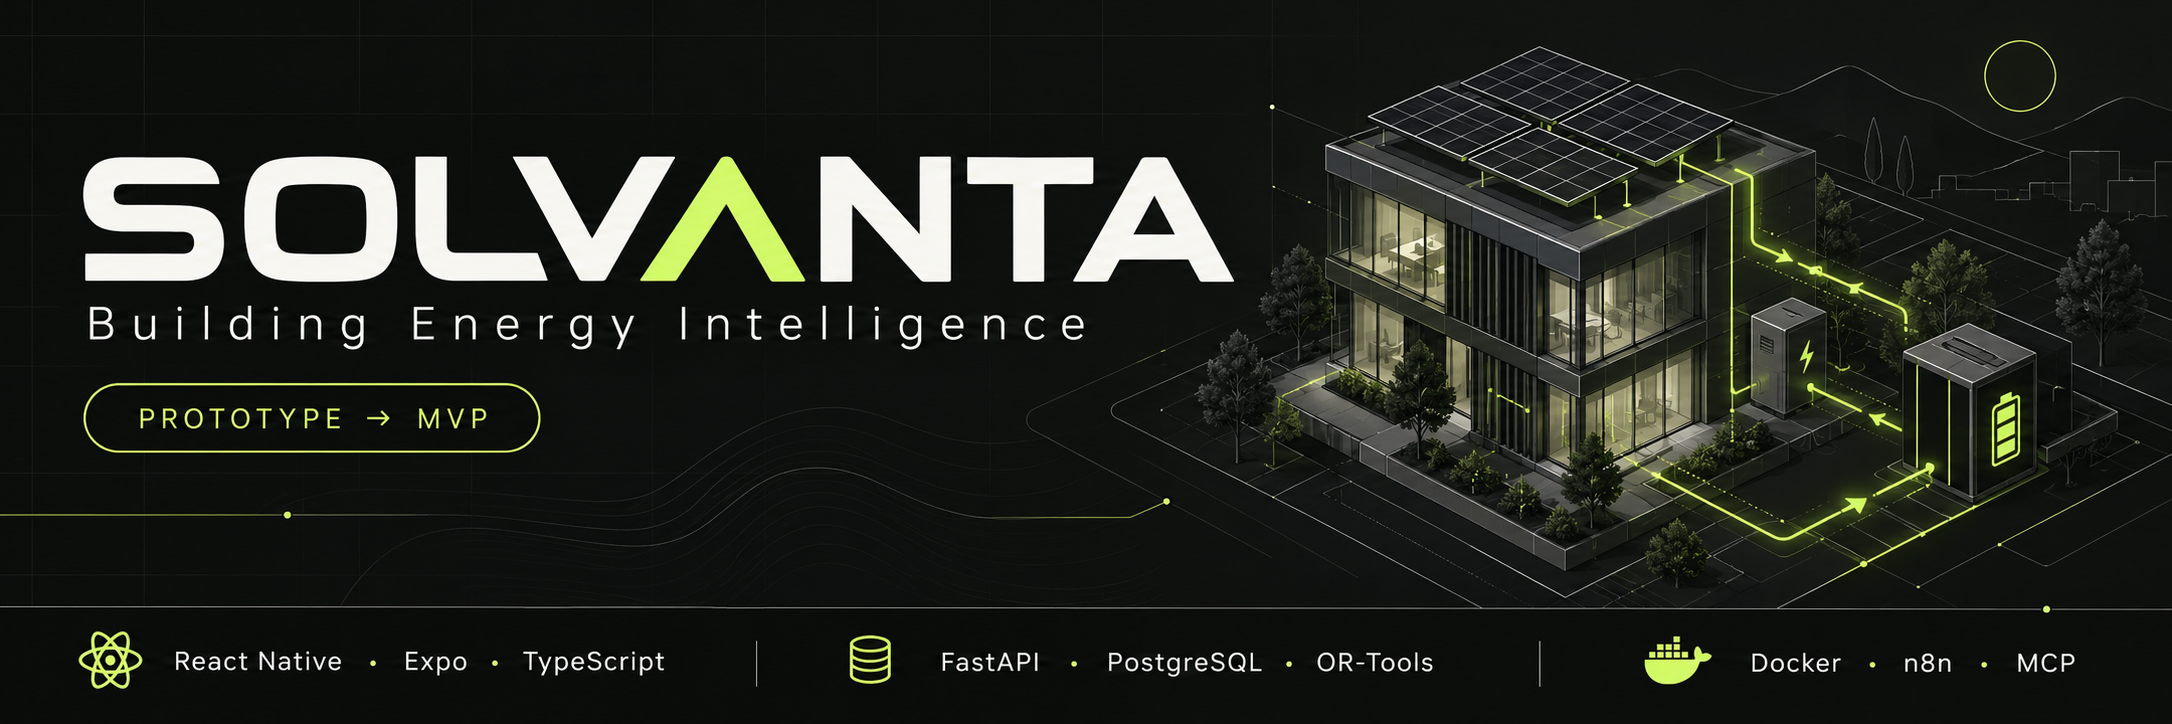
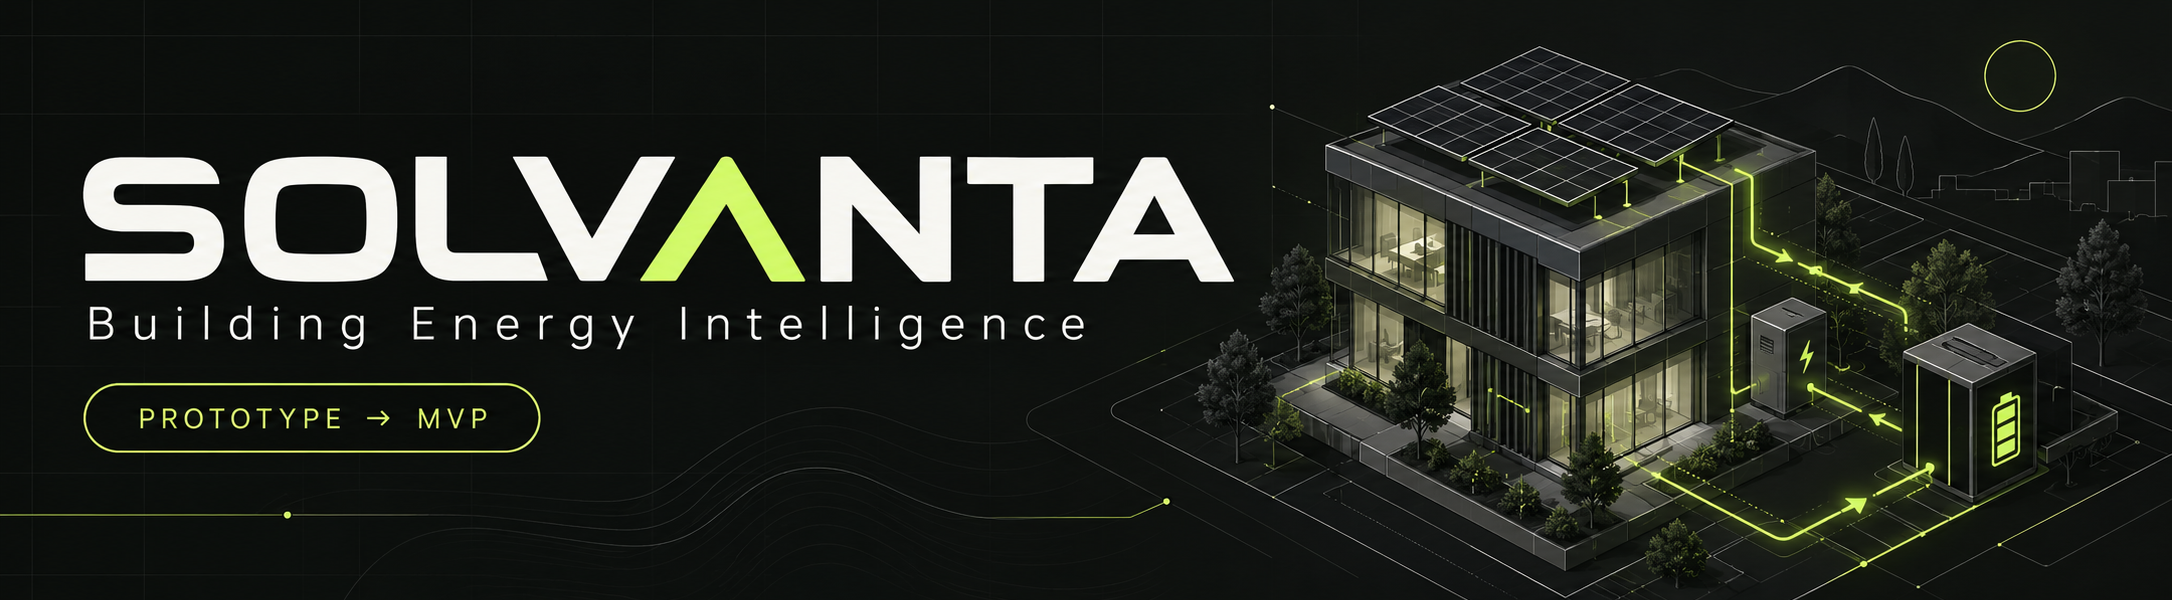
Overhaul the README with screenshots from the Android build
- Eight new screenshots captured from the development build with the
  demo building: home with live weather, appliances, an evening outage
  simulation, rooftop design, appliance schedule, simulated AR preview,
  bill history with solar sizing, and engine tools.
- The text now describes the local-first app: on-device SQLite engine,
  Open-Meteo weather, ML Kit bill reading, ARCore AR; with an
  architecture sketch, the current stack and how to run the build.
- Banner: cropped the old FastAPI / PostgreSQL / Docker / n8n / MCP
  strip. The earlier prototype screenshots stay in docs/ui-evidence for
  the documents that cite them.

diff --git a/README.md b/README.md
@@ -1,83 +1,112 @@
 <p align="center">
-  <img src="docs/assets/solvanta-banner.png" alt="Solvanta — Building Energy Intelligence. Prototype to MVP. React Native, Expo, TypeScript, FastAPI, PostgreSQL, OR-Tools, Docker, n8n and MCP." width="100%" />
+  <img src="docs/assets/solvanta-banner.png" alt="Solvanta — Building Energy Intelligence. Prototype to MVP." width="100%" />
 </p>
 
 <p align="center">
-  <strong>PROTOTYPE PHASE · MOVING TOWARDS MVP</strong><br />
+  <strong>LOCAL-FIRST · ANDROID · PROTOTYPE → MVP</strong><br />
   Model your energy. Understand your backup. Plan for the outage.
 </p>
 
-Solvanta is an Android-first building energy digital twin that brings solar design, appliance priorities and backup planning into one workflow. Explore what happens during a power outage, compare alternatives and review a plan before running its simulation.
+Solvanta is an Android building-energy digital twin. It brings rooftop solar design, appliance priorities and outage planning into one workflow. Every calculation runs on the phone and every record is stored in an on-device SQLite database. There is no server to run and nothing to deploy; the app works offline. Only sign-in and live weather use the internet.
 
-## Inside the prototype
+## Screenshots
 
 <table>
   <tr>
-    <th width="25%">Energy overview</th>
-    <th width="25%">Load priorities</th>
-    <th width="25%">Outage scenarios</th>
-    <th width="25%">Rooftop studio</th>
+    <th width="25%">Home &amp; live weather</th>
+    <th width="25%">Appliances &amp; priorities</th>
+    <th width="25%">Outage simulation</th>
+    <th width="25%">Rooftop &amp; PV design</th>
   </tr>
   <tr>
-    <td><img src="docs/ui-evidence/android/01-overview-dark.png" alt="Earlier Android prototype: neon energy overview and flow diagram" width="220" /></td>
-    <td><img src="docs/ui-evidence/android/02-appliances-dark.png" alt="Earlier Android prototype: appliance selection and load priorities" width="220" /></td>
-    <td><img src="docs/ui-evidence/android/03-simulation-dark.png" alt="Earlier Android prototype: battery reserve gauge and outage scenario" width="220" /></td>
-    <td><img src="docs/ui-evidence/android/05-rooftop-dark.png" alt="Earlier Android prototype: rooftop geometry and solar panel layout" width="220" /></td>
+    <td><img src="docs/screenshots/01-home.png" alt="Home: energy flow between solar, battery, grid and home, with the live weather box" width="220" /></td>
+    <td><img src="docs/screenshots/02-appliances.png" alt="Appliances: loads with power, priority and runtime windows" width="220" /></td>
+    <td><img src="docs/screenshots/03-simulation.png" alt="Simulation: battery state of charge and unmet demand through an outage" width="220" /></td>
+    <td><img src="docs/screenshots/04-rooftop.png" alt="Rooftop: calibrated roof outline, obstacles and placed panels" width="220" /></td>
+  </tr>
+  <tr>
+    <th>Appliance scheduling</th>
+    <th>AR preview</th>
+    <th>Bills &amp; solar sizing</th>
+    <th>Engine tools</th>
+  </tr>
+  <tr>
+    <td><img src="docs/screenshots/05-scheduling.png" alt="Scheduling: when each appliance runs within the solar and grid budget" width="220" /></td>
+    <td><img src="docs/screenshots/06-rooftop-ar.png" alt="AR preview: the saved panel layout in perspective on a detected surface; simulated where ARCore is unavailable" width="220" /></td>
+    <td><img src="docs/screenshots/07-solar-sizing.png" alt="Bills: twelve months of electricity use saved for the building, used to size the solar array" width="220" /></td>
+    <td><img src="docs/screenshots/08-operations.png" alt="Engine tools: comparing the current system with a bigger battery and more PV" width="220" /></td>
   </tr>
 </table>
 
-*Screenshots show the earlier Android UI prototype with fixture data. The current integrated build and its validation are documented in the [project status](docs/STATUS.md); the final visual overhaul is still ahead.*
+*Screenshots from the Android development build with the built-in demo building. Weather is live; energy results are simulated, and the app never switches real equipment. The AR shot is the simulated preview shown on devices without ARCore; on an ARCore phone the same layout is placed through the camera.*
 
-## Product modules
+## What it does
 
 ### Building & appliance digital twin
-
-Create a building profile with its solar array, inverter, battery, grid connection and optional generator. Register individual appliances with power ratings, criticality, required runtime and operating windows, then select the loads to include in a scenario. This turns equipment specifications into a model of the building's energy needs.
+Describe the building: solar array, inverter, battery, grid connection and an optional generator. Add appliances with their power, priority, required runtime and the hours they may run in, then choose which loads a scenario includes.
 
 ### Rooftop & solar planning
+Trace the roof on a top-down photo, calibrate it with one measured distance, mark obstacles, and let Solvanta place panels with setbacks. The saved layout gives a PV capacity and an hour-by-hour generation estimate. **Preview in AR** places the saved layout on a real surface through ARCore.
 
-Calibrate a roof drawing to real dimensions, define boundaries and obstacles, and explore panel placement with setbacks. Estimate PV capacity and daily generation from the saved layout and irradiance assumptions to connect rooftop space with the energy available to the building.
+### Solar sizing from an electricity bill
+Photograph a Pakistani electricity bill. The phone reads the monthly *Units* history with on-device text recognition (the image never leaves the device). It then suggests an array size for your city's solar yield.
 
-### Outage simulation & shortage forecasting
+### Outage simulation & shortage forecast
+Simulate a day in 15-minute steps: how solar, battery, grid and generator serve demand through the outages you set. See battery charge, unmet demand and shortages of critical loads, plus a next-day projection.
 
-Explore how solar, batteries, grid supply and an optional generator serve demand across a day in 15-minute intervals. Inspect battery state of charge, unmet demand and critical-load shortages during configured outages. Persistence-based projections use configured or saved simulated profiles to estimate where shortages may occur.
+### Appliance scheduling
+A constraint scheduler decides when each selected appliance runs. Every load completes its runtime inside its window, interruption limits are respected, and the available solar + grid power is never exceeded. Higher-priority loads are delayed least. It is a branch-and-bound search on the phone, checked against Google OR-Tools on reference cases.
 
-### Appliance scheduling & backup resilience
+### Backup resilience & what-if plans
+Compare normal battery use with a critical-reserve strategy that keeps energy back for essential loads. Compare the current system with a bigger battery or more PV. Then take a plan through review: submit, approve, simulate and verify, with every step kept in an audit trail.
 
-Schedule selected appliances within their runtime, flexibility and interruption constraints using the available solar and grid power budget. Compare baseline dispatch with a critical-reserve strategy that preserves battery energy for essential loads. Results expose unmet demand and infeasible schedules so users can see where their configuration falls short.
+### Replay & operations
+Replay a saved simulation step by step. Generate clearly labelled simulated telemetry, flag mismatches against the expected trace as incidents, and check them against a verified plan.
 
-### What-if comparisons & human approval
+### Live weather
+Current conditions and a three-day forecast for your city, plus a solar production forecast for your saved array, from [Open-Meteo](https://open-meteo.com) (no API key). The weather box animates sun, moon, clouds, rain, snow and lightning, and its colour follows the temperature. Offline, it shows only the sun or the moon for the time of day.
 
-Compare the current configuration with hypothetical battery or PV capacity changes and inspect the resulting energy tradeoffs. Submit a plan for review, approve or reject it, then simulate the approved snapshot and verify its results. Revision checks and audit records keep each decision tied to the inputs that were reviewed.
+## How it works
 
-### Digital twin replay
+```
+React Native app (Expo, TypeScript)
+├── Screens ──────────► api client (same routes as the old REST API)
+│                         ├── on-device engine ── SQLite (expo-sqlite)
+│                         │     simulation · PV · roof geometry · scheduler
+│                         │     forecast · resilience · plans · telemetry
+│                         └── weather ─────────── Open-Meteo (online)
+├── Sign-in ──────────► Firebase Authentication (online) or guest mode
+├── Bill reading ─────► ML Kit text recognition (on device)
+└── AR preview ───────► ViroReact + ARCore (on device)
+```
 
-Play, pause and seek through a saved simulation to follow energy flows, battery charge and requested appliance activity over time. Replay uses the recorded scenario rather than silently substituting the building's latest settings, making it easier to explain and revisit a result.
-
-### Energy operations & incident evidence
-
-Generate explicitly simulated telemetry and examine persistent PV, battery or load mismatches against the expected trace. Incident records include supporting evidence and possible causes, with post-plan checks that evaluate synthetic model consistency. This provides an operations workflow for investigating scenarios without claiming real hardware diagnosis.
-
-### Workflow automation & engineering tools
-
-Coordinate shortage response, daily planning and anomaly incidents through n8n workflows with durable approval waits. Nine authenticated MCP tools expose building profiles, saved scenarios, simulation, forecasting, scheduling, resilience, configuration comparison, anomalies and plan proposals. The mobile Operations page calls the same engineering services; proposals stay pending until explicitly approved.
-
-## One connected workflow
-
-**Model the building → Explore an outage → Compare options → Review a plan → Approve → Simulate & verify → Replay the outcome.**
-
-Solvanta connects design assumptions with operational decisions, helping users understand which loads can be supported, when appliances can run and how changes affect backup resilience.
+The engines began as a Python/FastAPI backend and were ported to TypeScript. A parity test still compares them with the reference outputs of the original Python code (`mobile/__tests__/local_engine_parity.test.ts`).
 
 ## Tech stack
 
-| Layer | Technologies |
+| Area | Technologies |
 |---|---|
-| Mobile | React Native · Expo · TypeScript · Expo Router |
-| API & data | Python · FastAPI · Pydantic · SQLAlchemy · PostgreSQL |
-| Engines & operations | OR-Tools · Docker · n8n · Official Python MCP SDK |
+| App | React Native 0.86 · Expo SDK 57 · TypeScript · Expo Router · Reanimated |
+| Data | SQLite (expo-sqlite), on the device |
+| Engines | TypeScript: energy simulation, PV model, Clipper polygon geometry, branch-and-bound scheduler |
+| On-device ML & AR | Google ML Kit text recognition · ViroReact · ARCore |
+| Online services | Firebase Authentication · Open-Meteo weather |
+| Testing | Jest (900+ tests) · TypeScript strict mode |
 
-## Towards MVP
+## Run it
 
-The core simulation workflow is implemented. Next are the remaining GUI overhaul, AR/VR, native dev-client/APK validation and user testing. Energy results and telemetry are simulated; the prototype does not control electrical equipment.
+The app needs a development build, not Expo Go, because AR, text recognition and Google sign-in are native modules.
 
-[Product status](docs/STATUS.md) · [Architecture](docs/ARCHITECTURE.md) · [MCP tools](docs/MCP.md)
+```bash
+cd mobile
+npm install --legacy-peer-deps
+npx expo run:android        # builds and installs the development build on a device or emulator
+```
+
+AR needs a real ARM phone with ARCore: ViroReact ships its renderer only for ARM (arm64-v8a, armeabi-v7a), so an x86_64 emulator cannot run the AR preview. Run the tests with `npm test` and the type check with `npx tsc --noEmit`.
+
+## Status
+
+The full workflow runs on the device. Next: user testing on phones, the remaining visual polish, and removing the retired Python backend from the repository. Energy figures are simulated estimates for planning, not engineering sign-off.
+
+[Product status](docs/STATUS.md) · [Architecture](docs/ARCHITECTURE.md)
